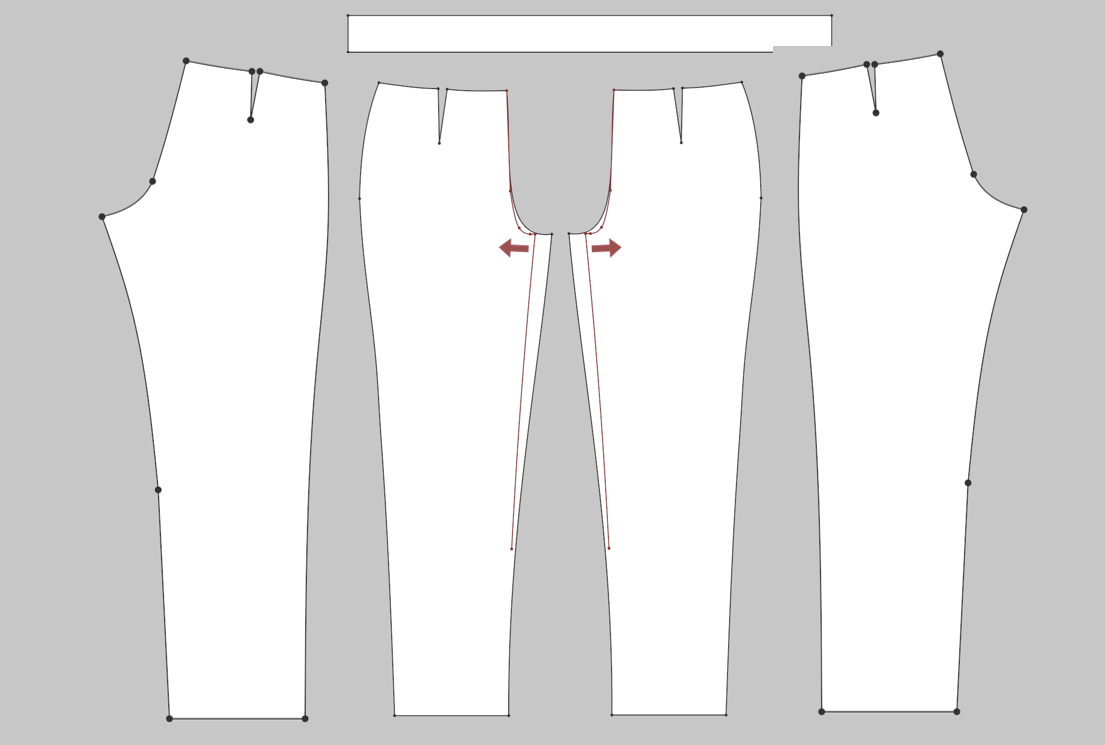
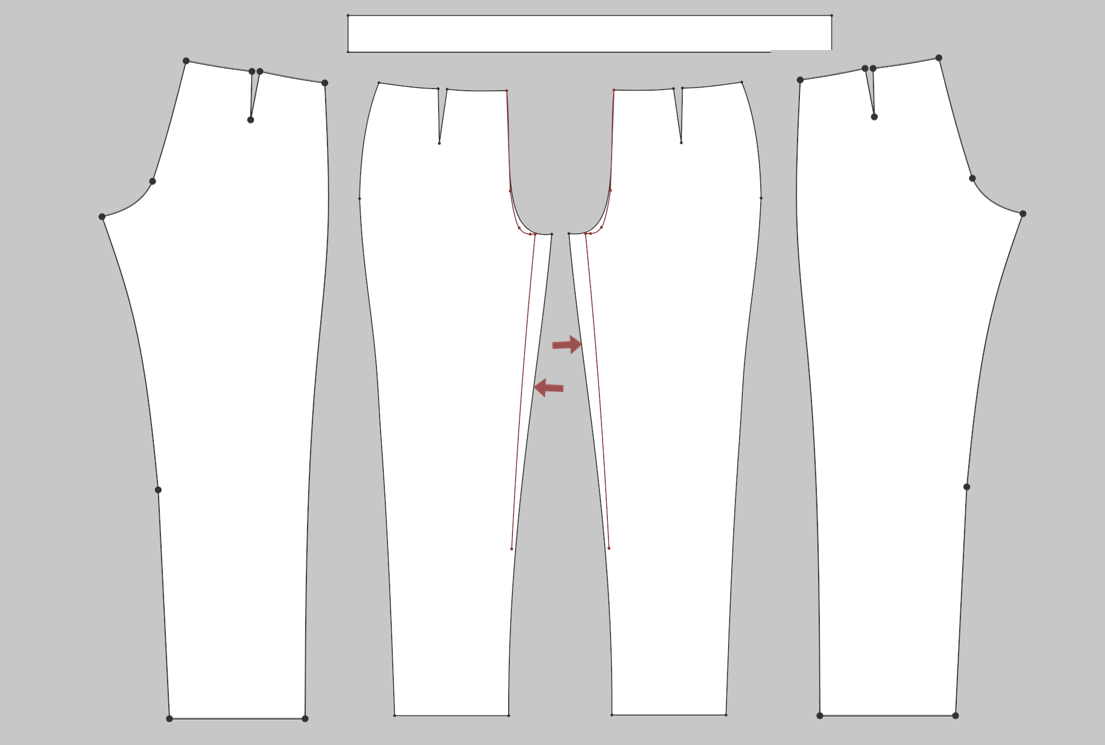
image updates - arrow

diff --git a/PostTrainingQuestionnaire.html b/PostTrainingQuestionnaire.html
@@ -112,66 +112,55 @@
         <p>2. Please rate the following based on how engaged you felt during training</p>
         <ol type="a">
             <li>How aware were you of the real world surrounding while navigating in the virtual world? (i.e. sounds, room temperature, other people, etc.)?<br><br>    
-                &emsp;&emsp;&emsp;&emsp;&emsp;&emsp;
-                extremely aware&emsp;&emsp;
-                <input class="answer" type="radio" name="sec2q1" value="1"><label class="options"> &nbsp;-3&emsp;&emsp;</label>&emsp;&emsp;
-                <input class="answer" type="radio" name="sec2q1" value="2"><label class="options"> &nbsp;-2&emsp;&emsp;</label>&emsp;&emsp;
-                <input class="answer" type="radio" name="sec2q1" value="3"><label class="options"> &nbsp;-1&emsp;&emsp;</label>&emsp;&emsp;
-                <input class="answer" type="radio" name="sec2q1" value="4"><label class="options"> &nbsp;0&emsp;&emsp;</label>&emsp;&emsp;
-                <input class="answer" type="radio" name="sec2q1" value="5"><label class="options"> &nbsp;1&emsp;&emsp;</label>&emsp;&emsp;
-                <input class="answer" type="radio" name="sec2q1" value="6"><label class="options"> &nbsp;2&emsp;&emsp;</label>&emsp;&emsp;
-                <input class="answer" type="radio" name="sec2q1" value="7"><label class="options"> &nbsp;3&emsp;&emsp;</label>&emsp;&emsp;
-                not at all aware
+                <input class="answer" type="radio" name="sec2q1" value="1"><label class="options"> &nbsp;Extremely aware</label>&emsp;&emsp;
+                <input class="answer" type="radio" name="sec2q1" value="2"><label class="options"> &nbsp;Aware</label>&emsp;&emsp;
+                <input class="answer" type="radio" name="sec2q1" value="3"><label class="options"> &nbsp;Somewhat aware</label>&emsp;&emsp;
+                <input class="answer" type="radio" name="sec2q1" value="4"><label class="options"> &nbsp;Neither aware nor unaware</label>&emsp;&emsp;
+                <input class="answer" type="radio" name="sec2q1" value="5"><label class="options"> &nbsp;Somewhat unaware</label>&emsp;&emsp;
+                <input class="answer" type="radio" name="sec2q1" value="6"><label class="options"> &nbsp;Unaware</label>&emsp;&emsp;
+                <input class="answer" type="radio" name="sec2q1" value="7"><label class="options"> &nbsp;Extremely unaware</label>&emsp;&emsp;
             </li><br>
            
-            <li>How real did the virtual world seem to you?<br><br>    
-                &emsp;&emsp;&emsp;&emsp;&emsp;&emsp;&nbsp;
-                completely real&emsp;&emsp;
-                <input class="answer" type="radio" name="sec2q2" value="1"><label class="options"> &nbsp;-3&emsp;&emsp;</label>&emsp;&emsp;
-                <input class="answer" type="radio" name="sec2q2" value="2"><label class="options"> &nbsp;-2&emsp;&emsp;</label>&emsp;&emsp;
-                <input class="answer" type="radio" name="sec2q2" value="3"><label class="options"> &nbsp;-1&emsp;&emsp;</label>&emsp;&emsp;
-                <input class="answer" type="radio" name="sec2q2" value="4"><label class="options"> &nbsp;0&emsp;&emsp;</label>&emsp;&emsp;
-                <input class="answer" type="radio" name="sec2q2" value="5"><label class="options"> &nbsp;1&emsp;&emsp;</label>&emsp;&emsp;
-                <input class="answer" type="radio" name="sec2q2" value="6"><label class="options"> &nbsp;2&emsp;&emsp;</label>&emsp;&emsp;
-                <input class="answer" type="radio" name="sec2q2" value="7"><label class="options"> &nbsp;3&emsp;&emsp;</label>&emsp;&emsp;
-                not at all real
+            <li>How real did the virtual world seem to you?<br><br>
+                <input class="answer" type="radio" name="sec2q2" value="1"><label class="options"> &nbsp;Extremely real</label>&emsp;&emsp;
+                <input class="answer" type="radio" name="sec2q2" value="2"><label class="options"> &nbsp;Real</label>&emsp;&emsp;
+                <input class="answer" type="radio" name="sec2q2" value="3"><label class="options"> &nbsp;Somewhat real</label>&emsp;&emsp;
+                <input class="answer" type="radio" name="sec2q2" value="4"><label class="options"> &nbsp;Neither real nor unreal</label>&emsp;&emsp;
+                <input class="answer" type="radio" name="sec2q2" value="5"><label class="options"> &nbsp;Somewhat unreal</label>&emsp;&emsp;
+                <input class="answer" type="radio" name="sec2q2" value="6"><label class="options"> &nbsp;Unreal</label>&emsp;&emsp;
+                <input class="answer" type="radio" name="sec2q2" value="7"><label class="options"> &nbsp;Extremely unreal</label>&emsp;&emsp;
             </li><br>
              
-            <li>I had a sense of acting in the virtual space, rather than operating something from outside.<br><br>    
-                &emsp;&emsp;&emsp;&emsp;&emsp;&emsp;
-                fully disagree&emsp;&emsp;&nbsp;&nbsp;&nbsp;
-                <input class="answer" type="radio" name="sec2q3" value="1"><label class="options"> &nbsp;-3&emsp;&emsp;</label>&emsp;&emsp;
-                <input class="answer" type="radio" name="sec2q3" value="2"><label class="options"> &nbsp;-2&emsp;&emsp;</label>&emsp;&emsp;
-                <input class="answer" type="radio" name="sec2q3" value="3"><label class="options"> &nbsp;-1&emsp;&emsp;</label>&emsp;&emsp;
-                <input class="answer" type="radio" name="sec2q3" value="4"><label class="options"> &nbsp;0&emsp;&emsp;</label>&emsp;&emsp;
-                <input class="answer" type="radio" name="sec2q3" value="5"><label class="options"> &nbsp;1&emsp;&emsp;</label>&emsp;&emsp;
-                <input class="answer" type="radio" name="sec2q3" value="6"><label class="options"> &nbsp;2&emsp;&emsp;</label>&emsp;&emsp;
-                <input class="answer" type="radio" name="sec2q3" value="7"><label class="options"> &nbsp;3&emsp;&emsp;</label>&emsp;&emsp;
-                fully agree
+            <li>I had a sense of acting in the virtual space, rather than operating something from outside.<br><br>
+                <input class="answer" type="radio" name="sec2q3" value="1"><label class="options"> &nbsp;Fully agree</label>&emsp;&emsp;
+                <input class="answer" type="radio" name="sec2q3" value="2"><label class="options"> &nbsp;Agree</label>&emsp;&emsp;
+                <input class="answer" type="radio" name="sec2q3" value="3"><label class="options"> &nbsp;Somewhat agree</label>&emsp;&emsp;
+                <input class="answer" type="radio" name="sec2q3" value="4"><label class="options"> &nbsp;Neither agree nor disagree</label>&emsp;&emsp;
+                <input class="answer" type="radio" name="sec2q3" value="5"><label class="options"> &nbsp;Somewhat disagree</label>&emsp;&emsp;
+                <input class="answer" type="radio" name="sec2q3" value="6"><label class="options"> &nbsp;Disagree</label>&emsp;&emsp;
+                <input class="answer" type="radio" name="sec2q3" value="7"><label class="options"> &nbsp;Fully disagree</label>&emsp;&emsp;
             </li><br>
              
             <li>How much did your experience in the virtual environment seem consistent with your real world experience?<br><br>    
-                &emsp;&emsp;&emsp;&emsp;&emsp;&emsp;
-                not consistent&emsp;&emsp;&nbsp;&nbsp;
-                <input class="answer" type="radio" name="sec2q4" value="1"><label class="options"> &nbsp;-3&emsp;&emsp;</label>&emsp;&emsp;
-                <input class="answer" type="radio" name="sec2q4" value="2"><label class="options"> &nbsp;-2&emsp;&emsp;</label>&emsp;&emsp;
-                <input class="answer" type="radio" name="sec2q4" value="3"><label class="options"> &nbsp;-1&emsp;&emsp;</label>&emsp;&emsp;
-                <input class="answer" type="radio" name="sec2q4" value="4"><label class="options"> &nbsp;0&emsp;&emsp;</label>&emsp;&emsp;
-                <input class="answer" type="radio" name="sec2q4" value="5"><label class="options"> &nbsp;1&emsp;&emsp;</label>&emsp;&emsp;
-                <input class="answer" type="radio" name="sec2q4" value="6"><label class="options"> &nbsp;2&emsp;&emsp;</label>&emsp;&emsp;
-                <input class="answer" type="radio" name="sec2q4" value="7"><label class="options"> &nbsp;3&emsp;&emsp;</label>&emsp;&emsp;
+                <input class="answer" type="radio" name="sec2q4" value="1"><label class="options"> &nbsp;Extremely consistent</label>&emsp;&emsp;
+                <input class="answer" type="radio" name="sec2q4" value="2"><label class="options"> &nbsp;Consistent</label>&emsp;&emsp;
+                <input class="answer" type="radio" name="sec2q4" value="3"><label class="options"> &nbsp;Somewhat consistent</label>&emsp;&emsp;
+                <input class="answer" type="radio" name="sec2q4" value="4"><label class="options"> &nbsp;Neither inconsistent nor consistent</label>&emsp;&emsp;
+                <input class="answer" type="radio" name="sec2q4" value="5"><label class="options"> &nbsp;Somewhat inconsistent</label>&emsp;&emsp;
+                <input class="answer" type="radio" name="sec2q4" value="6"><label class="options"> &nbsp;Inconsistent</label>&emsp;&emsp;
+                <input class="answer" type="radio" name="sec2q4" value="7"><label class="options"> &nbsp;Extremely inconsistent</label>&emsp;&emsp;
                 very consistent
             </li><br>
              
             <li>How real did the virtual world seem to you?<br><br>   
                 about as real as an imagined world&emsp;
-                <input class="answer" type="radio" name="sec2q5" value="1"><label class="options"> &nbsp;-3&emsp;&emsp;</label>&emsp;&emsp;
-                <input class="answer" type="radio" name="sec2q5" value="2"><label class="options"> &nbsp;-2&emsp;&emsp;</label>&emsp;&emsp;
-                <input class="answer" type="radio" name="sec2q5" value="3"><label class="options"> &nbsp;-1&emsp;&emsp;</label>&emsp;&emsp;
-                <input class="answer" type="radio" name="sec2q5" value="4"><label class="options"> &nbsp;0&emsp;&emsp;</label>&emsp;&emsp;
-                <input class="answer" type="radio" name="sec2q5" value="5"><label class="options"> &nbsp;1&emsp;&emsp;</label>&emsp;&emsp;
-                <input class="answer" type="radio" name="sec2q5" value="6"><label class="options"> &nbsp;2&emsp;&emsp;</label>&emsp;&emsp;
-                <input class="answer" type="radio" name="sec2q5" value="7"><label class="options"> &nbsp;3&emsp;&emsp;</label>&emsp;&emsp;
+                <input class="answer" type="radio" name="sec2q5" value="1"><label class="options"> &nbsp;Extremely real</label>&emsp;&emsp;
+                <input class="answer" type="radio" name="sec2q5" value="2"><label class="options"> &nbsp;Real</label>&emsp;&emsp;
+                <input class="answer" type="radio" name="sec2q5" value="3"><label class="options"> &nbsp;Somewhat real</label>&emsp;&emsp;
+                <input class="answer" type="radio" name="sec2q5" value="4"><label class="options"> &nbsp;Neither real nor unreal</label>&emsp;&emsp;
+                <input class="answer" type="radio" name="sec2q5" value="5"><label class="options"> &nbsp;Somewhat unreal</label>&emsp;&emsp;
+                <input class="answer" type="radio" name="sec2q5" value="6"><label class="options"> &nbsp;Unreal</label>&emsp;&emsp;
+                <input class="answer" type="radio" name="sec2q5" value="7"><label class="options"> &nbsp;Extremely unreal</label>&emsp;&emsp;
                 indistinguishable from the real world
             </li><br>
                          
